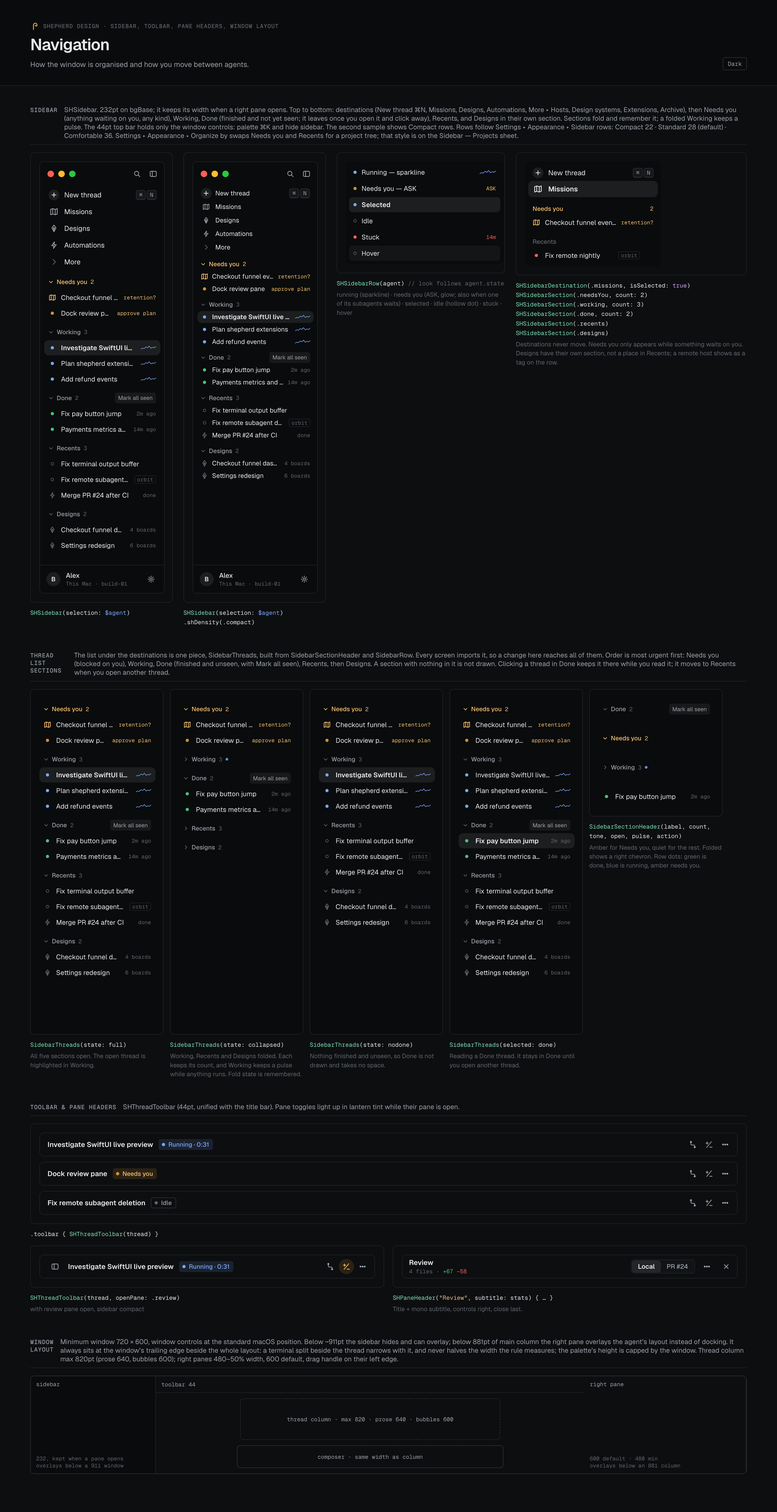
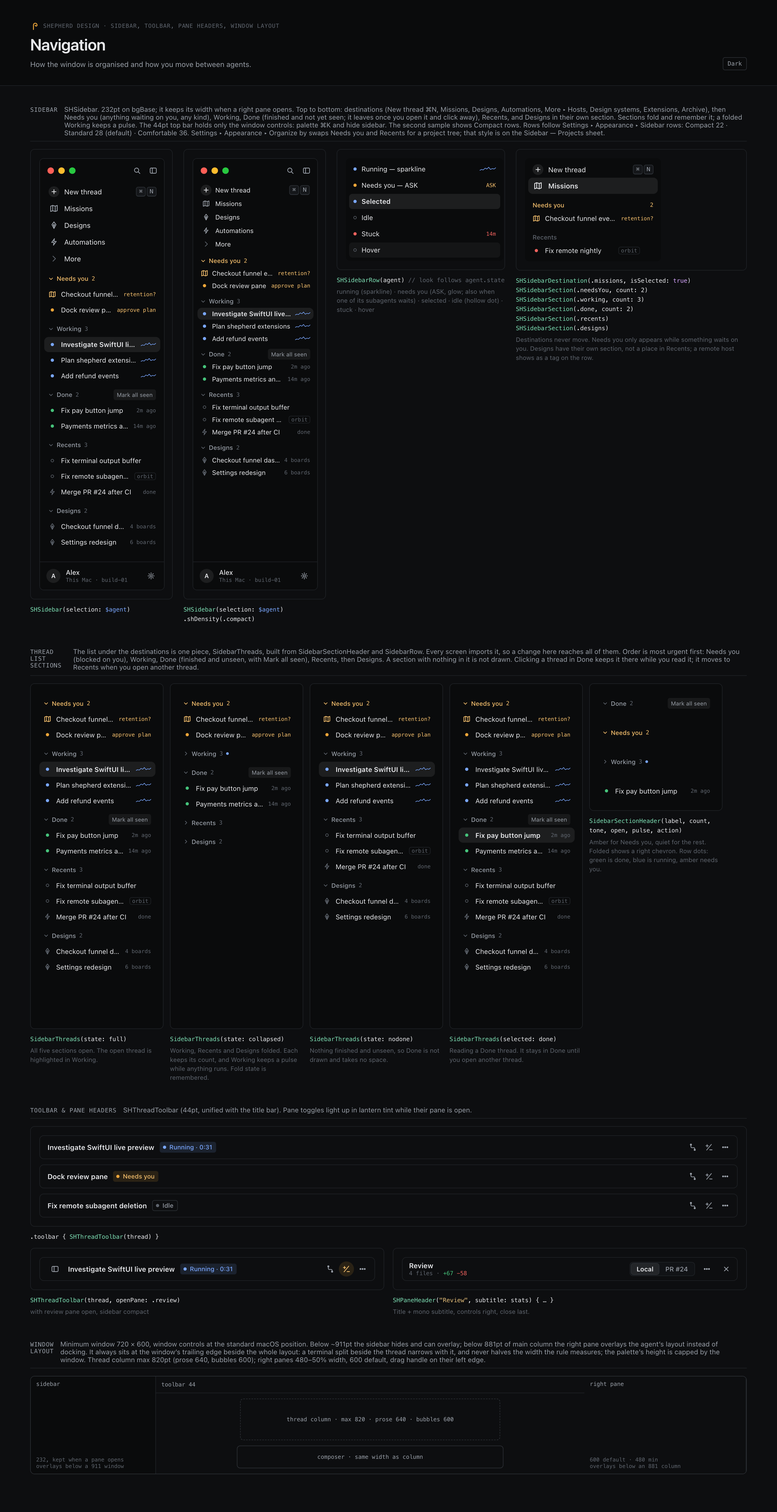
chore: finish the made-up profile name in fixtures, tests and the navigation board

diff --git a/Tests/Designs/boards/DZStart.dc.html b/Tests/Designs/boards/DZStart.dc.html
@@ -27,7 +27,7 @@ button{cursor:pointer}
 </helmet>
 <div style="width: 1600px; height: 1000px; box-sizing: border-box; display: flex; flex-direction: column; background: #0d0e10; overflow: hidden;">
 <div style="flex-grow: 1; min-height: 0; display: flex;"><aside aria-label="Sidebar" style="width: 232px; height: 100%; flex-shrink: 0; box-sizing: border-box; display: flex; flex-direction: column; background: #0a0b0c; border-right: 1px solid #1f2226;"><div style="height: 44px; flex-shrink: 0; display: flex; align-items: center; gap: 4px; padding: 0 8px 0 14px;"><div style="display: flex; gap: 8px;"><span style="width: 12px; height: 12px; border-radius: 50%; background: #ff5f57;"></span><span style="width: 12px; height: 12px; border-radius: 50%; background: #febc2e;"></span><span style="width: 12px; height: 12px; border-radius: 50%; background: #28c840;"></span></div><span style="flex-grow: 1;"></span><button aria-label="Search (⌘K)" style="width: 26px; height: 26px; border: none; border-radius: 50%; background: transparent; display: inline-flex; align-items: center; justify-content: center; padding: 0;"><svg width="14" height="14" viewBox="0 0 16 16" fill="none" stroke="#9aa0a9" stroke-width="1.5" stroke-linecap="round" stroke-linejoin="round" style="flex-shrink: 0;" aria-hidden="true"><circle cx="7" cy="7" r="4.5"/><path d="M10.5 10.5L14 14"/></svg></button><button aria-label="Hide sidebar" style="width: 26px; height: 26px; border: none; border-radius: 50%; background: transparent; display: inline-flex; align-items: center; justify-content: center; padding: 0;"><svg width="14" height="14" viewBox="0 0 16 16" fill="none" stroke="#9aa0a9" stroke-width="1.5" stroke-linecap="round" stroke-linejoin="round" style="flex-shrink: 0;" aria-hidden="true"><rect x="1.5" y="2.5" width="13" height="11" rx="2"/><path d="M6 2.5v11"/></svg></button></div><nav aria-label="Destinations" style="display: flex; flex-direction: column; gap: 1px; padding: 2px 8px;"><div class="row" style="display: flex; align-items: center; gap: 9px; height: 30px; padding: 0 8px; border-radius: 8px; font-size: 13px; "><span style="width: 20px; height: 20px; flex-shrink: 0; display: flex; align-items: center; justify-content: center; border-radius: 50%; background: rgba(255,255,255,0.08);"><svg width="12" height="12" viewBox="0 0 16 16" fill="none" stroke="#e8e9ec" stroke-width="1.8" stroke-linecap="round" stroke-linejoin="round" style="flex-shrink: 0;" aria-hidden="true"><path d="M8 3v10M3 8h10"/></svg></span><span style="flex-grow: 1; min-width: 0; white-space: nowrap;">New thread</span><span style="display: flex; gap: 2px;"><kbd class="mono" style="min-width: 18px; height: 18px; padding: 0 4px; box-sizing: border-box; display: inline-flex; align-items: center; justify-content: center; border: 1px solid #2c3035; border-bottom-width: 1.5px; border-radius: 4px; background: #15171a; font-size: 10.5px; color: #9aa0a9;">⌘</kbd><kbd class="mono" style="min-width: 18px; height: 18px; padding: 0 4px; box-sizing: border-box; display: inline-flex; align-items: center; justify-content: center; border: 1px solid #2c3035; border-bottom-width: 1.5px; border-radius: 4px; background: #15171a; font-size: 10.5px; color: #9aa0a9;">N</kbd></span></div><div class="row" style="display: flex; align-items: center; gap: 9px; height: 30px; padding: 0 8px; border-radius: 8px; font-size: 13px; "><span style="width: 20px; display: flex; justify-content: center; flex-shrink: 0;"><svg width="15" height="15" viewBox="0 0 16 16" fill="none" stroke="#9aa0a9" stroke-width="1.5" stroke-linecap="round" stroke-linejoin="round" style="flex-shrink: 0;" aria-hidden="true"><path d="M1.5 3.5l4-1.5 5 1.5 4-1.5v10.5l-4 1.5-5-1.5-4 1.5z"/><path d="M5.5 2v10.5M10.5 3.5V14"/></svg></span><span style="flex-grow: 1; min-width: 0; white-space: nowrap;">Missions</span></div><div class="row" style="display: flex; align-items: center; gap: 9px; height: 30px; padding: 0 8px; border-radius: 8px; font-size: 13px; background: rgba(255,255,255,0.08); font-weight: 600;"><span style="width: 20px; display: flex; justify-content: center; flex-shrink: 0;"><svg width="15" height="15" viewBox="0 0 16 16" fill="none" stroke="#e8e9ec" stroke-width="1.5" stroke-linecap="round" stroke-linejoin="round" style="flex-shrink: 0;" aria-hidden="true"><path d="M8 1.5l4 5.5-4 7.5-4-7.5z"/><circle cx="8" cy="7.8" r="1.2"/><path d="M8 9v5.5"/></svg></span><span style="flex-grow: 1; min-width: 0; white-space: nowrap;">Designs</span></div><div class="row" style="display: flex; align-items: center; gap: 9px; height: 30px; padding: 0 8px; border-radius: 8px; font-size: 13px; "><span style="width: 20px; display: flex; justify-content: center; flex-shrink: 0;"><svg width="15" height="15" viewBox="0 0 16 16" fill="none" stroke="#9aa0a9" stroke-width="1.5" stroke-linecap="round" stroke-linejoin="round" style="flex-shrink: 0;" aria-hidden="true"><path d="M9 1.5L3.5 9H8l-1 5.5L12.5 7H8z"/></svg></span><span style="flex-grow: 1; min-width: 0; white-space: nowrap;">Automations</span></div><div class="row" style="display: flex; align-items: center; gap: 9px; height: 30px; padding: 0 8px; border-radius: 8px; font-size: 13px; "><span style="width: 20px; display: flex; justify-content: center; flex-shrink: 0;"><svg width="15" height="15" viewBox="0 0 16 16" fill="none" stroke="#5f656e" stroke-width="1.5" stroke-linecap="round" stroke-linejoin="round" style="flex-shrink: 0;" aria-hidden="true"><path d="M6 3l5 5-5 5"/></svg></span><span style="flex-grow: 1; min-width: 0; white-space: nowrap;">More</span></div></nav><div aria-label="Recents" style="display: flex; flex-direction: column; gap: 1px; padding: 0 8px; flex-grow: 1; min-height: 0; overflow: hidden;"><div style="display: flex; align-items: center; justify-content: space-between; padding: 14px 8px 4px 8px;"><span style="font-size: 11.5px; font-weight: 500; color: #f7c16e;">Needs you</span><span class="mono" style="font-size: 10.5px; color: #f7c16e;">2</span></div><div class="row" style="display: flex; align-items: center; gap: 9px; height: 28px; padding: 0 8px; border-radius: 8px; font-size: 12.5px; "><span style="width: 14px; display: flex; justify-content: center; flex-shrink: 0;"><svg width="13" height="13" viewBox="0 0 16 16" fill="none" stroke="#f7c16e" stroke-width="1.5" stroke-linecap="round" stroke-linejoin="round" style="flex-shrink: 0;" aria-hidden="true"><path d="M1.5 3.5l4-1.5 5 1.5 4-1.5v10.5l-4 1.5-5-1.5-4 1.5z"/><path d="M5.5 2v10.5M10.5 3.5V14"/></svg></span><span style="flex-grow: 1; min-width: 0; white-space: nowrap; overflow: hidden; text-overflow: ellipsis;">Checkout funnel events</span><span class="mono" style="font-size: 10px; color: #f7c16e; white-space: nowrap;">retention?</span></div><div class="row" style="display: flex; align-items: center; gap: 9px; height: 28px; padding: 0 8px; border-radius: 8px; font-size: 12.5px; "><span style="width: 14px; display: flex; justify-content: center; flex-shrink: 0;"><span class="glow" style="width: 6px; height: 6px; border-radius: 50%; background: #f2a93b; flex-shrink: 0;"></span></span><span style="flex-grow: 1; min-width: 0; white-space: nowrap; overflow: hidden; text-overflow: ellipsis;">Dock review pane</span><span class="mono" style="font-size: 10px; color: #f7c16e; white-space: nowrap;">approve plan</span></div><div style="display: flex; align-items: center; justify-content: space-between; padding: 14px 8px 4px 8px;"><span style="font-size: 11.5px; font-weight: 500; color: #5f656e;">Recents</span></div><div class="row" style="display: flex; align-items: center; gap: 9px; height: 28px; padding: 0 8px; border-radius: 8px; font-size: 12.5px; "><span style="width: 14px; display: flex; justify-content: center; flex-shrink: 0;"><span style="width: 6px; height: 6px; border-radius: 50%; background: #7aa7ff; flex-shrink: 0;"></span></span><span style="flex-grow: 1; min-width: 0; white-space: nowrap; overflow: hidden; text-overflow: ellipsis;">Investigate SwiftUI live preview</span><svg width="28" height="12" viewBox="0 0 36 12" fill="none" stroke="#7aa7ff" stroke-width="1.2" stroke-linejoin="round" stroke-linecap="round" style="flex-shrink: 0;"><path d="M0 9L4 7L8 8L12 4L16 6L20 2L24 7L28 5L32 6L36 3"/></svg></div><div class="row" style="display: flex; align-items: center; gap: 9px; height: 28px; padding: 0 8px; border-radius: 8px; font-size: 12.5px; "><span style="width: 14px; display: flex; justify-content: center; flex-shrink: 0;"><svg width="13" height="13" viewBox="0 0 16 16" fill="none" stroke="#5f656e" stroke-width="1.5" stroke-linecap="round" stroke-linejoin="round" style="flex-shrink: 0;" aria-hidden="true"><path d="M8 1.5l4 5.5-4 7.5-4-7.5z"/><circle cx="8" cy="7.8" r="1.2"/><path d="M8 9v5.5"/></svg></span><span style="flex-grow: 1; min-width: 0; white-space: nowrap; overflow: hidden; text-overflow: ellipsis;">Checkout funnel dashboard</span><span class="mono" style="font-size: 10px; color: #5f656e; white-space: nowrap;">4 boards</span></div><div class="row" style="display: flex; align-items: center; gap: 9px; height: 28px; padding: 0 8px; border-radius: 8px; font-size: 12.5px; "><span style="width: 14px; display: flex; justify-content: center; flex-shrink: 0;"><span style="width: 6px; height: 6px; border-radius: 50%; background: #7aa7ff; flex-shrink: 0;"></span></span><span style="flex-grow: 1; min-width: 0; white-space: nowrap; overflow: hidden; text-overflow: ellipsis;">Plan shepherd extensions</span><svg width="28" height="12" viewBox="0 0 36 12" fill="none" stroke="#7aa7ff" stroke-width="1.2" stroke-linejoin="round" stroke-linecap="round" style="flex-shrink: 0;"><path d="M0 9L4 7L8 8L12 4L16 6L20 2L24 7L28 5L32 6L36 3"/></svg></div><div class="row" style="display: flex; align-items: center; gap: 9px; height: 28px; padding: 0 8px; border-radius: 8px; font-size: 12.5px; "><span style="width: 14px; display: flex; justify-content: center; flex-shrink: 0;"><span style="width: 6px; height: 6px; box-sizing: border-box; border-radius: 50%; border: 1px solid #5f656e;"></span></span><span style="flex-grow: 1; min-width: 0; white-space: nowrap; overflow: hidden; text-overflow: ellipsis;">Fix remote subagent deletion</span><span class="mono" style="font-size: 10px; color: #5f656e; white-space: nowrap; padding: 0 4px; border: 1px solid #1f2226; border-radius: 4px;">orbit</span></div><div class="row" style="display: flex; align-items: center; gap: 9px; height: 28px; padding: 0 8px; border-radius: 8px; font-size: 12.5px; "><span style="width: 14px; display: flex; justify-content: center; flex-shrink: 0;"><svg width="13" height="13" viewBox="0 0 16 16" fill="none" stroke="#5f656e" stroke-width="1.5" stroke-linecap="round" stroke-linejoin="round" style="flex-shrink: 0;" aria-hidden="true"><path d="M9 1.5L3.5 9H8l-1 5.5L12.5 7H8z"/></svg></span><span style="flex-grow: 1; min-width: 0; white-space: nowrap; overflow: hidden; text-overflow: ellipsis;">Merge PR #24 after CI</span><span class="mono" style="font-size: 10px; color: #5f656e; white-space: nowrap;">done</span></div><div class="row" style="display: flex; align-items: center; gap: 9px; height: 28px; padding: 0 8px; border-radius: 8px; font-size: 12.5px; "><span style="width: 14px; display: flex; justify-content: center; flex-shrink: 0;"><svg width="13" height="13" viewBox="0 0 16 16" fill="none" stroke="#5f656e" stroke-width="1.5" stroke-linecap="round" stroke-linejoin="round" style="flex-shrink: 0;" aria-hidden="true"><path d="M8 1.5l4 5.5-4 7.5-4-7.5z"/><circle cx="8" cy="7.8" r="1.2"/><path d="M8 9v5.5"/></svg></span><span style="flex-grow: 1; min-width: 0; white-space: nowrap; overflow: hidden; text-overflow: ellipsis;">Settings redesign</span><span class="mono" style="font-size: 10px; color: #5f656e; white-space: nowrap;">6 boards</span></div><div class="row" style="display: flex; align-items: center; gap: 9px; height: 28px; padding: 0 8px; border-radius: 8px; font-size: 12.5px; "><span style="width: 14px; display: flex; justify-content: center; flex-shrink: 0;"><span style="width: 6px; height: 6px; box-sizing: border-box; border-radius: 50%; border: 1px solid #5f656e;"></span></span><span style="flex-grow: 1; min-width: 0; white-space: nowrap; overflow: hidden; text-overflow: ellipsis;">Fix terminal output buffer</span></div><div class="row" style="display: flex; align-items: center; gap: 9px; height: 28px; padding: 0 8px; border-radius: 8px; font-size: 12.5px; "><span style="width: 14px; display: flex; justify-content: center; flex-shrink: 0;"><svg width="13" height="13" viewBox="0 0 16 16" fill="none" stroke="#5f656e" stroke-width="1.5" stroke-linecap="round" stroke-linejoin="round" style="flex-shrink: 0;" aria-hidden="true"><path d="M1.5 3.5l4-1.5 5 1.5 4-1.5v10.5l-4 1.5-5-1.5-4 1.5z"/><path d="M5.5 2v10.5M10.5 3.5V14"/></svg></span><span style="flex-grow: 1; min-width: 0; white-space: nowrap; overflow: hidden; text-overflow: ellipsis;">Ship native UI v2</span><span class="mono" style="font-size: 10px; color: #5f656e; white-space: nowrap;">done</span></div><div class="row" style="display: flex; align-items: center; gap: 9px; height: 28px; padding: 0 8px; border-radius: 8px; font-size: 12.5px; "><span style="width: 14px; display: flex; justify-content: center; flex-shrink: 0;"><span style="width: 6px; height: 6px; border-radius: 50%; background: #f0625e; flex-shrink: 0;"></span></span><span style="flex-grow: 1; min-width: 0; white-space: nowrap; overflow: hidden; text-overflow: ellipsis;">Fix remote nightly</span><span class="mono" style="font-size: 10px; color: #5f656e; white-space: nowrap; padding: 0 4px; border: 1px solid #1f2226; border-radius: 4px;">orbit</span></div></div><div style="display: flex; align-items: center; gap: 10px; padding: 10px 12px; border-top: 1px solid #1f2226;">
-      <span style="width: 26px; height: 26px; border-radius: 50%; background: rgba(255,255,255,0.08); display: flex; align-items: center; justify-content: center; font-size: 11.5px; font-weight: 600; flex-shrink: 0;">B</span>
+      <span style="width: 26px; height: 26px; border-radius: 50%; background: rgba(255,255,255,0.08); display: flex; align-items: center; justify-content: center; font-size: 11.5px; font-weight: 600; flex-shrink: 0;">A</span>
       <span style="display: flex; flex-direction: column; gap: 1px; min-width: 0;"><span style="font-size: 12.5px; font-weight: 500;">Alex</span><span class="mono" style="font-size: 10px; color: #5f656e; white-space: nowrap;">This Mac · build-01</span></span>
       <span style="margin-left: auto;"><button aria-label="Settings" style="width: 26px; height: 26px; border: none; border-radius: 50%; background: transparent; display: inline-flex; align-items: center; justify-content: center; padding: 0;"><svg width="14" height="14" viewBox="0 0 16 16" fill="none" stroke="#9aa0a9" stroke-width="1.5" stroke-linecap="round" stroke-linejoin="round" style="flex-shrink: 0;" aria-hidden="true"><circle cx="8" cy="8" r="2.3"/><path d="M8 1.5v2M8 12.5v2M1.5 8h2M12.5 8h2M3.4 3.4l1.4 1.4M11.2 11.2l1.4 1.4M3.4 12.6l1.4-1.4M11.2 4.8l1.4-1.4"/></svg></button></span></div></aside><main style="flex-grow: 1; min-width: 0; display: flex; flex-direction: column;"><header style="height: 52px; box-sizing: border-box; flex-shrink: 0; display: flex; align-items: center; gap: 12px; padding: 0 12px 0 10px; border-bottom: 1px solid #1f2226; background: #0d0e10;">
       <button aria-label="Show sidebar" style="width: 28px; height: 28px; border: none; border-radius: 50%; background: transparent; display: inline-flex; align-items: center; justify-content: center; padding: 0;"><svg width="14" height="14" viewBox="0 0 16 16" fill="none" stroke="#9aa0a9" stroke-width="1.5" stroke-linecap="round" stroke-linejoin="round" style="flex-shrink: 0;" aria-hidden="true"><rect x="1.5" y="2.5" width="13" height="11" rx="2"/><path d="M6 2.5v11"/></svg></button>

diff --git a/docs/design/boards/SHNavigation.html b/docs/design/boards/SHNavigation.html
@@ -363,7 +363,7 @@ button{font:inherit;color:inherit;cursor:pointer}
 </div></div></div><div style="height: 52px; flex-shrink: 0; overflow: hidden;">
 
 <div style="width: 231px; height: 52px; box-sizing: border-box; display: flex; align-items: center; gap: 10px; padding: 0 12px; border-top: 1px solid #1f2226; background: #0a0b0c;">
-      <span style="width: 26px; height: 26px; border-radius: 50%; background: rgba(255,255,255,0.08); display: flex; align-items: center; justify-content: center; font-size: 11.5px; font-weight: 600; flex-shrink: 0;">B</span>
+      <span style="width: 26px; height: 26px; border-radius: 50%; background: rgba(255,255,255,0.08); display: flex; align-items: center; justify-content: center; font-size: 11.5px; font-weight: 600; flex-shrink: 0;">A</span>
       <span style="display: flex; flex-direction: column; gap: 1px; min-width: 0;"><span style="font-size: 12.5px; font-weight: 500;">Alex</span><span class="mono" style="font-size: 10px; color: #5f656e; white-space: nowrap;">This Mac · build-01</span></span>
       <span style="margin-left: auto;"><button aria-label="Settings" style="width: 26px; height: 26px; border: none; border-radius: 50%; background: transparent; display: inline-flex; align-items: center; justify-content: center; padding: 0;"><svg width="14" height="14" viewBox="0 0 16 16" fill="none" stroke="#9aa0a9" stroke-width="1.5" stroke-linecap="round" stroke-linejoin="round" aria-hidden="true" style="flex-shrink: 0;"><circle cx="8" cy="8" r="2.3"></circle><path d="M8 1.5v2M8 12.5v2M1.5 8h2M12.5 8h2M3.4 3.4l1.4 1.4M11.2 11.2l1.4 1.4M3.4 12.6l1.4-1.4M11.2 4.8l1.4-1.4"></path></svg></button></span></div>
 </div></aside></div>
@@ -597,7 +597,7 @@ button{font:inherit;color:inherit;cursor:pointer}
 <div hidden="" style="display: none;"><div style="display: flex; align-items: center; justify-content: space-between; padding: 10px 6px 4px 6px;"><span style="font-size: 11.5px; font-weight: 500; color: #f7c16e;">Needs you</span><span class="mono" style="font-size: 10.5px; color: #f7c16e;">2</span></div><div class="row" style="display: flex; align-items: center; gap: 7px; height: 22px; padding: 0 6px; border-radius: 8px; font-size: 12px; "><span style="width: 14px; display: flex; justify-content: center; flex-shrink: 0;"><svg width="11" height="11" viewBox="0 0 16 16" fill="none" stroke="#f7c16e" stroke-width="1.5" stroke-linecap="round" stroke-linejoin="round" aria-hidden="true" style="flex-shrink: 0;"><path d="M1.5 3.5l4-1.5 5 1.5 4-1.5v10.5l-4 1.5-5-1.5-4 1.5z"></path><path d="M5.5 2v10.5M10.5 3.5V14"></path></svg></span><span style="flex-grow: 1; min-width: 0; white-space: nowrap; overflow: hidden; text-overflow: ellipsis;">Checkout funnel events</span><span class="mono" style="font-size: 10px; color: #f7c16e; white-space: nowrap;">retention?</span></div><div class="row" style="display: flex; align-items: center; gap: 7px; height: 22px; padding: 0 6px; border-radius: 8px; font-size: 12px; "><span style="width: 14px; display: flex; justify-content: center; flex-shrink: 0;"><span class="glow" style="width: 6px; height: 6px; border-radius: 50%; background: #f2a93b; flex-shrink: 0;"></span></span><span style="flex-grow: 1; min-width: 0; white-space: nowrap; overflow: hidden; text-overflow: ellipsis;">Dock review pane</span><span class="mono" style="font-size: 10px; color: #f7c16e; white-space: nowrap;">approve plan</span></div><div style="display: flex; align-items: center; justify-content: space-between; padding: 10px 6px 4px 6px;"><span style="font-size: 11.5px; font-weight: 500; color: #5f656e;">Recents</span></div><div class="row" style="display: flex; align-items: center; gap: 7px; height: 22px; padding: 0 6px; border-radius: 8px; font-size: 12px; background: rgba(255,255,255,0.08);"><span style="width: 14px; display: flex; justify-content: center; flex-shrink: 0;"><span style="width: 6px; height: 6px; border-radius: 50%; background: #7aa7ff; flex-shrink: 0;"></span></span><span style="flex-grow: 1; min-width: 0; white-space: nowrap; overflow: hidden; text-overflow: ellipsis; font-weight: 600;">Investigate SwiftUI live preview</span><svg width="28" height="12" viewBox="0 0 36 12" fill="none" stroke="#7aa7ff" stroke-width="1.2" stroke-linejoin="round" stroke-linecap="round" style="flex-shrink: 0;"><path d="M0 9L4 7L8 8L12 4L16 6L20 2L24 7L28 5L32 6L36 3"></path></svg></div><div class="row" style="display: flex; align-items: center; gap: 7px; height: 22px; padding: 0 6px; border-radius: 8px; font-size: 12px; "><span style="width: 14px; display: flex; justify-content: center; flex-shrink: 0;"><svg width="11" height="11" viewBox="0 0 16 16" fill="none" stroke="#5f656e" stroke-width="1.5" stroke-linecap="round" stroke-linejoin="round" aria-hidden="true" style="flex-shrink: 0;"><path d="M8 1.5l4 5.5-4 7.5-4-7.5z"></path><circle cx="8" cy="7.8" r="1.2"></circle><path d="M8 9v5.5"></path></svg></span><span style="flex-grow: 1; min-width: 0; white-space: nowrap; overflow: hidden; text-overflow: ellipsis;">Checkout funnel dashboard</span><span class="mono" style="font-size: 10px; color: #5f656e; white-space: nowrap;">4 boards</span></div><div class="row" style="display: flex; align-items: center; gap: 7px; height: 22px; padding: 0 6px; border-radius: 8px; font-size: 12px; "><span style="width: 14px; display: flex; justify-content: center; flex-shrink: 0;"><span style="width: 6px; height: 6px; border-radius: 50%; background: #7aa7ff; flex-shrink: 0;"></span></span><span style="flex-grow: 1; min-width: 0; white-space: nowrap; overflow: hidden; text-overflow: ellipsis;">Plan shepherd extensions</span><svg width="28" height="12" viewBox="0 0 36 12" fill="none" stroke="#7aa7ff" stroke-width="1.2" stroke-linejoin="round" stroke-linecap="round" style="flex-shrink: 0;"><path d="M0 9L4 7L8 8L12 4L16 6L20 2L24 7L28 5L32 6L36 3"></path></svg></div><div class="row" style="display: flex; align-items: center; gap: 7px; height: 22px; padding: 0 6px; border-radius: 8px; font-size: 12px; "><span style="width: 14px; display: flex; justify-content: center; flex-shrink: 0;"><span style="width: 6px; height: 6px; box-sizing: border-box; border-radius: 50%; border: 1px solid #5f656e;"></span></span><span style="flex-grow: 1; min-width: 0; white-space: nowrap; overflow: hidden; text-overflow: ellipsis;">Fix remote subagent deletion</span><span class="mono" style="font-size: 10px; color: #5f656e; white-space: nowrap; padding: 0 4px; border: 1px solid #1f2226; border-radius: 4px;">orbit</span></div><div class="row" style="display: flex; align-items: center; gap: 7px; height: 22px; padding: 0 6px; border-radius: 8px; font-size: 12px; "><span style="width: 14px; display: flex; justify-content: center; flex-shrink: 0;"><svg width="11" height="11" viewBox="0 0 16 16" fill="none" stroke="#5f656e" stroke-width="1.5" stroke-linecap="round" stroke-linejoin="round" aria-hidden="true" style="flex-shrink: 0;"><path d="M9 1.5L3.5 9H8l-1 5.5L12.5 7H8z"></path></svg></span><span style="flex-grow: 1; min-width: 0; white-space: nowrap; overflow: hidden; text-overflow: ellipsis;">Merge PR #24 after CI</span><span class="mono" style="font-size: 10px; color: #5f656e; white-space: nowrap;">done</span></div><div class="row" style="display: flex; align-items: center; gap: 7px; height: 22px; padding: 0 6px; border-radius: 8px; font-size: 12px; "><span style="width: 14px; display: flex; justify-content: center; flex-shrink: 0;"><svg width="11" height="11" viewBox="0 0 16 16" fill="none" stroke="#5f656e" stroke-width="1.5" stroke-linecap="round" stroke-linejoin="round" aria-hidden="true" style="flex-shrink: 0;"><path d="M8 1.5l4 5.5-4 7.5-4-7.5z"></path><circle cx="8" cy="7.8" r="1.2"></circle><path d="M8 9v5.5"></path></svg></span><span style="flex-grow: 1; min-width: 0; white-space: nowrap; overflow: hidden; text-overflow: ellipsis;">Settings redesign</span><span class="mono" style="font-size: 10px; color: #5f656e; white-space: nowrap;">6 boards</span></div><div class="row" style="display: flex; align-items: center; gap: 7px; height: 22px; padding: 0 6px; border-radius: 8px; font-size: 12px; "><span style="width: 14px; display: flex; justify-content: center; flex-shrink: 0;"><span style="width: 6px; height: 6px; box-sizing: border-box; border-radius: 50%; border: 1px solid #5f656e;"></span></span><span style="flex-grow: 1; min-width: 0; white-space: nowrap; overflow: hidden; text-overflow: ellipsis;">Fix terminal output buffer</span></div><div class="row" style="display: flex; align-items: center; gap: 7px; height: 22px; padding: 0 6px; border-radius: 8px; font-size: 12px; "><span style="width: 14px; display: flex; justify-content: center; flex-shrink: 0;"><svg width="11" height="11" viewBox="0 0 16 16" fill="none" stroke="#5f656e" stroke-width="1.5" stroke-linecap="round" stroke-linejoin="round" aria-hidden="true" style="flex-shrink: 0;"><path d="M1.5 3.5l4-1.5 5 1.5 4-1.5v10.5l-4 1.5-5-1.5-4 1.5z"></path><path d="M5.5 2v10.5M10.5 3.5V14"></path></svg></span><span style="flex-grow: 1; min-width: 0; white-space: nowrap; overflow: hidden; text-overflow: ellipsis;">Ship native UI v2</span><span class="mono" style="font-size: 10px; color: #5f656e; white-space: nowrap;">done</span></div><div class="row" style="display: flex; align-items: center; gap: 7px; height: 22px; padding: 0 6px; border-radius: 8px; font-size: 12px; "><span style="width: 14px; display: flex; justify-content: center; flex-shrink: 0;"><span style="width: 6px; height: 6px; border-radius: 50%; background: #f0625e; flex-shrink: 0;"></span></span><span style="flex-grow: 1; min-width: 0; white-space: nowrap; overflow: hidden; text-overflow: ellipsis;">Fix remote nightly</span><span class="mono" style="font-size: 10px; color: #5f656e; white-space: nowrap; padding: 0 4px; border: 1px solid #1f2226; border-radius: 4px;">orbit</span></div></div></div><div style="height: 52px; flex-shrink: 0; overflow: hidden;">
 
 <div style="width: 231px; height: 52px; box-sizing: border-box; display: flex; align-items: center; gap: 10px; padding: 0 12px; border-top: 1px solid #1f2226; background: #0a0b0c;">
-      <span style="width: 26px; height: 26px; border-radius: 50%; background: rgba(255,255,255,0.08); display: flex; align-items: center; justify-content: center; font-size: 11.5px; font-weight: 600; flex-shrink: 0;">B</span>
+      <span style="width: 26px; height: 26px; border-radius: 50%; background: rgba(255,255,255,0.08); display: flex; align-items: center; justify-content: center; font-size: 11.5px; font-weight: 600; flex-shrink: 0;">A</span>
       <span style="display: flex; flex-direction: column; gap: 1px; min-width: 0;"><span style="font-size: 12.5px; font-weight: 500;">Alex</span><span class="mono" style="font-size: 10px; color: #5f656e; white-space: nowrap;">This Mac · build-01</span></span>
       <span style="margin-left: auto;"><button aria-label="Settings" style="width: 26px; height: 26px; border: none; border-radius: 50%; background: transparent; display: inline-flex; align-items: center; justify-content: center; padding: 0;"><svg width="14" height="14" viewBox="0 0 16 16" fill="none" stroke="#9aa0a9" stroke-width="1.5" stroke-linecap="round" stroke-linejoin="round" aria-hidden="true" style="flex-shrink: 0;"><circle cx="8" cy="8" r="2.3"></circle><path d="M8 1.5v2M8 12.5v2M1.5 8h2M12.5 8h2M3.4 3.4l1.4 1.4M11.2 11.2l1.4 1.4M3.4 12.6l1.4-1.4M11.2 4.8l1.4-1.4"></path></svg></button></span></div>
 </div></aside></div>

diff --git a/Tests/ShepherdAppIntegrationTests/BrowserAgentTests.swift b/Tests/ShepherdAppIntegrationTests/BrowserAgentTests.swift
@@ -70,7 +70,7 @@ struct BrowserAgentTests {
             <html><head><title>Secrets</title></head><body>
             <input type="password" aria-label="Password" value="s3cret-pass">
             <input aria-label="Card number" autocomplete="cc-number" value="4242424242424242">
-            <input aria-label="Name" value="Baily">
+            <input aria-label="Name" value="Alex">
             <button id="apply" onclick="document.title = 'applied'">Apply</button>
             </body></html>
             """,
@@ -171,11 +171,11 @@ struct BrowserAgentTests {
         try await opened(session, server, "/checkout")
         let snapshot = try text(await session.perform(.read(selector: nil, maxChars: nil)))
         let email = try ref(in: snapshot, "textbox \"Email\"")
-        let typed = try text(await session.perform(.type(ref: email, text: "baily@acme.dev", clear: false, submit: false, note: nil)))
+        let typed = try text(await session.perform(.type(ref: email, text: "alex@acme.dev", clear: false, submit: false, note: nil)))
         #expect(typed.contains("Typed 14 characters into textbox \"Email\"."))
         let after = try text(await session.perform(.read(selector: nil, maxChars: nil)))
-        #expect(after.contains("value=\"baily@acme.dev\""))
-        #expect(after.contains("text \"typed: baily@acme.dev\""), "the page heard the input event:\n\(after)")
+        #expect(after.contains("value=\"alex@acme.dev\""))
+        #expect(after.contains("text \"typed: alex@acme.dev\""), "the page heard the input event:\n\(after)")
         // Clearing replaces what is there; without it the text is added.
         _ = try text(await session.perform(.type(ref: email, text: "!", clear: false, submit: false, note: nil)))
         _ = try text(await session.perform(.type(ref: email, text: "x@y.z", clear: true, submit: false, note: nil)))
@@ -447,7 +447,7 @@ struct BrowserAgentTests {
         let snapshot = try text(await session.perform(.read(selector: nil, maxChars: nil)))
         #expect(snapshot.contains("textbox \"Password\" [e1] value=[hidden]"), "\(snapshot)")
         #expect(snapshot.contains("textbox \"Card number\" [e2] value=[hidden]"), "\(snapshot)")
-        #expect(snapshot.contains("value=\"Baily\""))
+        #expect(snapshot.contains("value=\"Alex\""))
         #expect(!snapshot.contains("s3cret-pass") && !snapshot.contains("4242424242424242"))
         let scoped = try text(await session.perform(.read(selector: "#apply", maxChars: nil)))
         #expect(scoped.contains("button \"Apply\" [e1]"), "\(scoped)")

diff --git a/Tests/ShepherdPreviewTests/Support/ChangesFixtures.swift b/Tests/ShepherdPreviewTests/Support/ChangesFixtures.swift
@@ -133,7 +133,7 @@ enum ChangesBoard {
     }
 
     static let overview = ChangesOverview(
-        repository: "/Users/baily/payments", branch: "agent/refund-events", head: "a1c9f2e", defaultScope: .branch(base: nil),
+        repository: "/Users/alex/payments", branch: "agent/refund-events", head: "a1c9f2e", defaultScope: .branch(base: nil),
         defaultBase: "origin/main",
         entries: [
             .init(scope: .lastTurn, files: 2, added: 12, removed: 3),
@@ -172,7 +172,7 @@ enum ChangesBoard {
     static func session(comment: Bool = true) -> ReviewSession {
         let files = files
         let list = listed(files, scope: .branch(base: nil), comparison: branchComparison)
-        let session = ReviewSession(agentID: AgentID(), paneID: PaneID(), cwd: "/Users/baily/payments", reference: nil)
+        let session = ReviewSession(agentID: AgentID(), paneID: PaneID(), cwd: "/Users/alex/payments", reference: nil)
         session.engine = engine(files, list: list)
         session.scope = .branch(base: nil)
         session.list = list
@@ -215,7 +215,7 @@ enum ChangesBoard {
         let files = GitDiff.parse([outbox, added("ledger/refund.go", Array(refund.prefix(3)))].joined(separator: "\n"))
         let list = listed(files, scope: .lastTurn,
                           comparison: ChangesComparison(head: "End of turn", base: "Start of turn", turn: lastTurn))
-        let session = ReviewSession(agentID: AgentID(), paneID: PaneID(), cwd: "/Users/baily/payments", reference: nil)
+        let session = ReviewSession(agentID: AgentID(), paneID: PaneID(), cwd: "/Users/alex/payments", reference: nil)
         session.engine = engine(files, list: list)
         session.scope = .lastTurn
         session.list = list

diff --git a/Tests/ShepherdPreviewTests/DesignPreviewTests+Git.swift b/Tests/ShepherdPreviewTests/DesignPreviewTests+Git.swift
@@ -19,8 +19,8 @@ extension DesignPreviewTests {
         let vm = workspace.vm
         let server = workspace.server
         let config = try #require(ProcessInfo.processInfo.environment["GIT_CONFIG_GLOBAL"])
-        _ = try? git(["config", "--file", config, "user.name", "Baily"], in: workspace.dir)
-        _ = try? git(["config", "--file", config, "user.email", "baily@example.com"], in: workspace.dir)
+        _ = try? git(["config", "--file", config, "user.name", "Alex"], in: workspace.dir)
+        _ = try? git(["config", "--file", config, "user.email", "alex@acme.dev"], in: workspace.dir)
         vm.selectSidebarRow(.design(checkout.id))
         let screen = vm.designScreen(checkout.id)
         await screen.refresh()
@@ -115,8 +115,8 @@ extension DesignPreviewTests {
         let vm = workspace.vm
         let server = workspace.server
         let config = try #require(ProcessInfo.processInfo.environment["GIT_CONFIG_GLOBAL"])
-        _ = try? git(["config", "--file", config, "user.name", "Baily"], in: workspace.dir)
-        _ = try? git(["config", "--file", config, "user.email", "baily@example.com"], in: workspace.dir)
+        _ = try? git(["config", "--file", config, "user.name", "Alex"], in: workspace.dir)
+        _ = try? git(["config", "--file", config, "user.email", "alex@acme.dev"], in: workspace.dir)
         let remote = try makeScratchDirectory("remote").appendingPathComponent("checkout-design.git")
         _ = try git(["init", "-q", "--bare", "-b", "main", remote.path], in: remote.deletingLastPathComponent())
         _ = try await server.shareDesignWithGit(checkout.id, url: remote.path, message: "Add checkout funnel design")

diff --git a/Tests/ShepherdProtocolUnitTests/BrowserDriveTests.swift b/Tests/ShepherdProtocolUnitTests/BrowserDriveTests.swift
@@ -15,7 +15,7 @@ struct BrowserDriveTests {
 
     static let pushes: [BrowserDrivePush] = [
         .request(token: 1, agentID: agent, request: .open(url: "http://localhost:5173/", note: "opening the app")),
-        .request(token: 2, agentID: agent, request: .type(ref: "e2", text: "baily@acme.dev", clear: true, submit: false, note: nil)),
+        .request(token: 2, agentID: agent, request: .type(ref: "e2", text: "alex@acme.dev", clear: true, submit: false, note: nil)),
         .request(token: 3, agentID: agent, request: .screenshot(ref: nil)),
         .abandoned(agentID: agent),
         .ended(agentID: agent, reason: BrowserDriveEnd.superseded),
